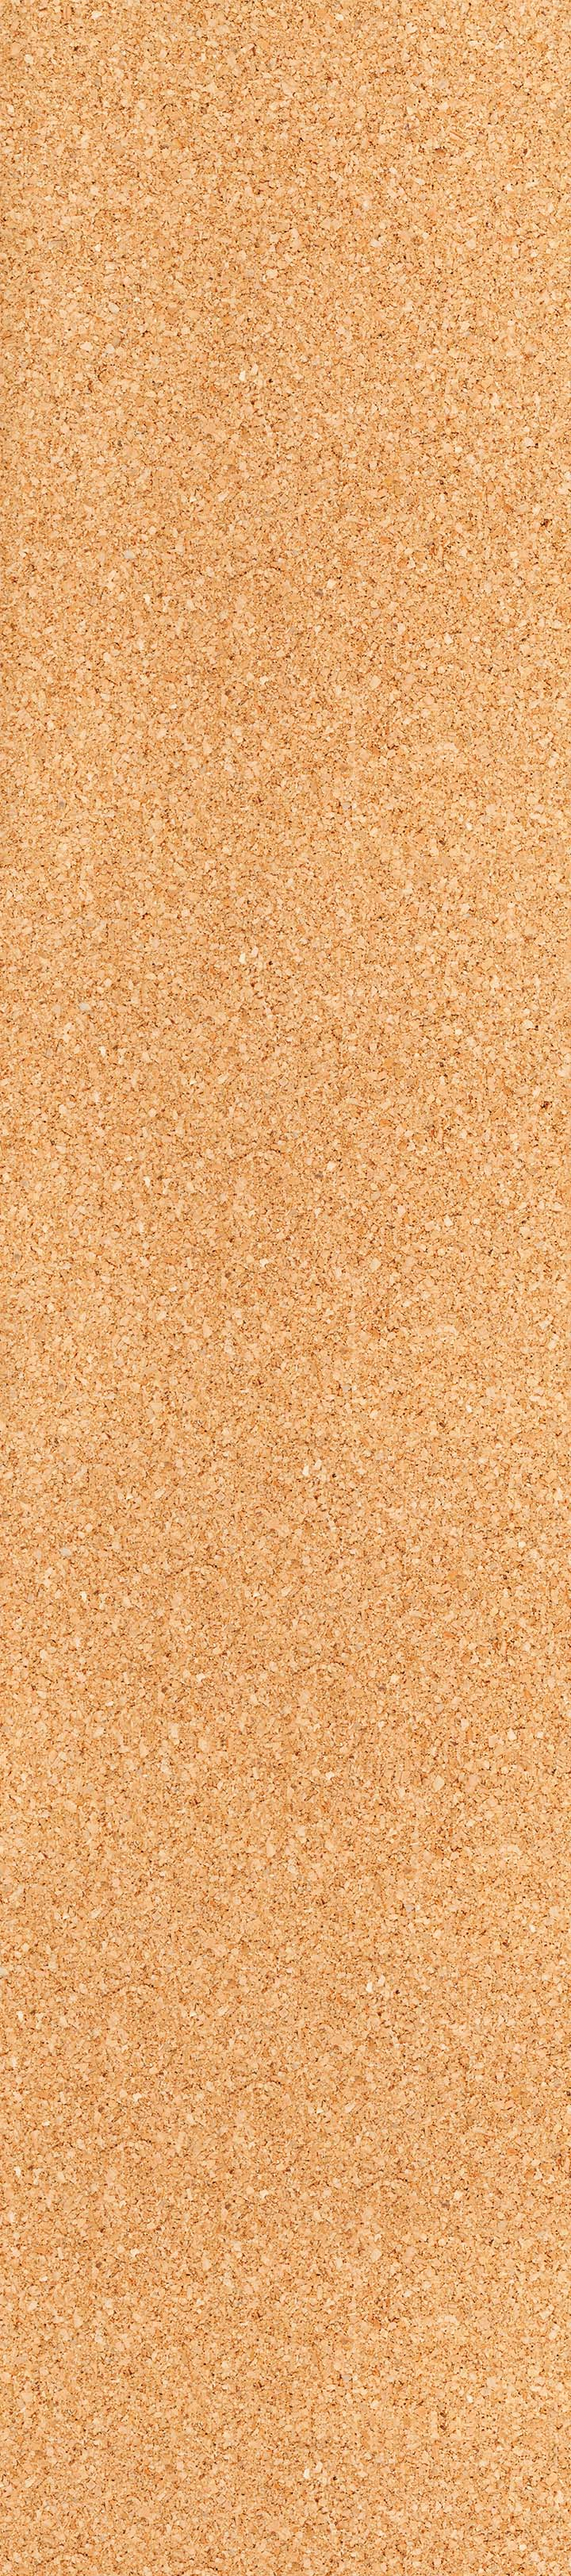
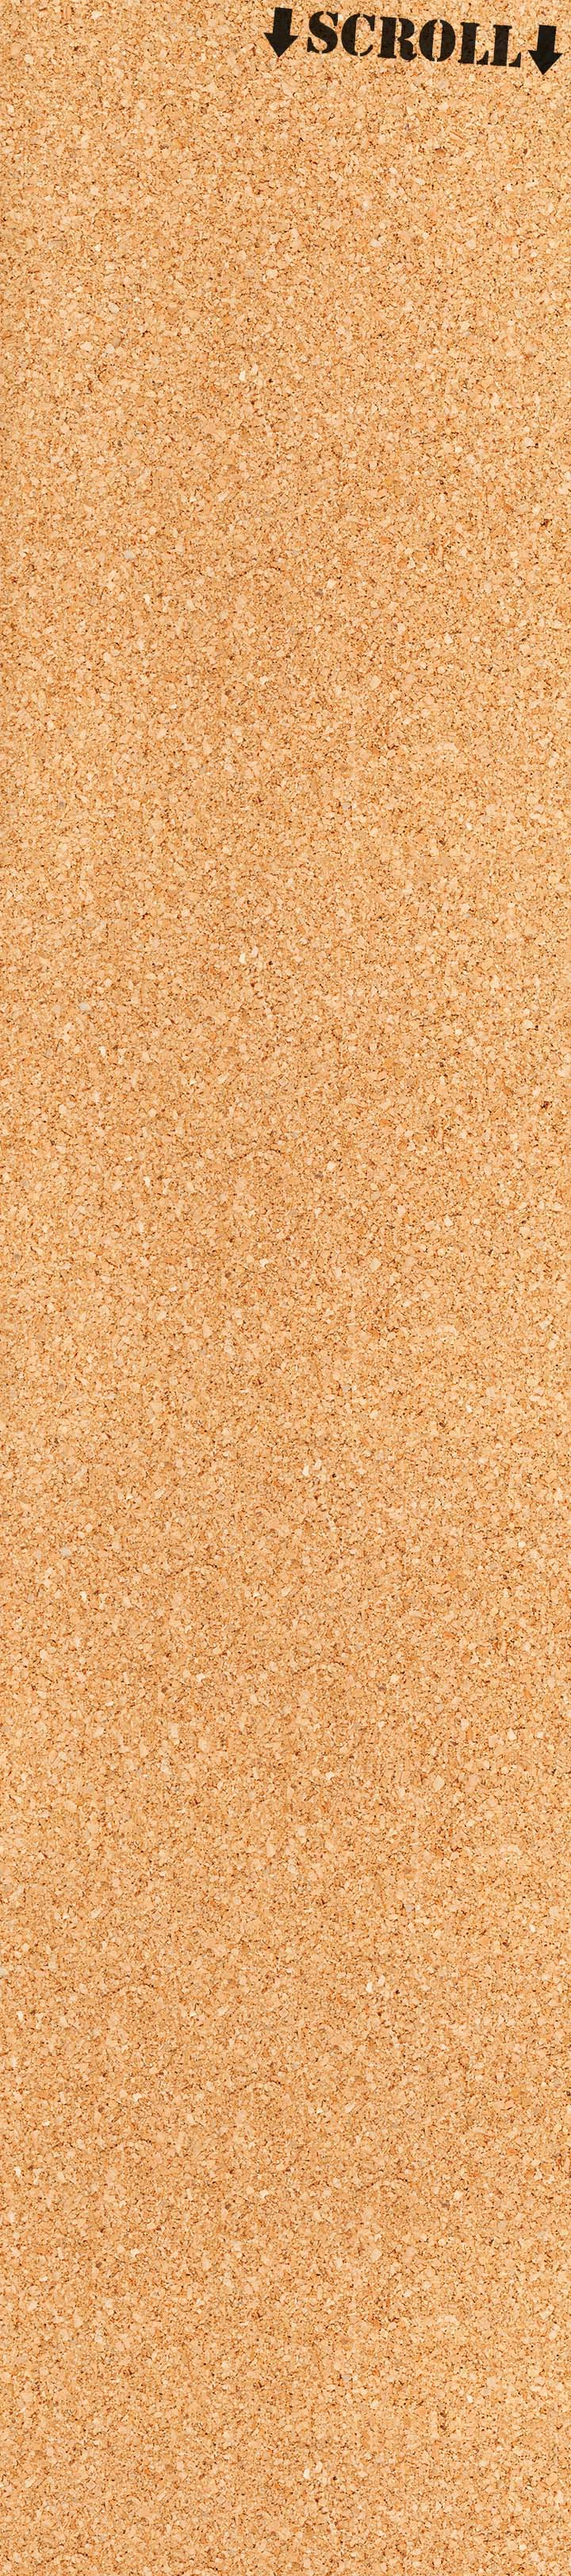
Add files via upload

Changed region(s): [[0.4583, 0.0, 0.9778, 0.0311]]

diff --git a/cssMaster.css b/cssMaster.css
@@ -80,12 +80,16 @@ border-width: 1px 0 0 0;
 
 .sectionContent {
 	width: 90%;
-	height: 100px; 
-	margin: 5% 0 0 5%;
+	margin: 0 0 0 5%;
+}
+
+#content>div {
+	height: 487px;
+	border-width: 1px 0 0 0;
+    border-style: solid;
 }
 
 #section1 {
-  height: 487px;
   background-position: center;
   background-size: cover;
   background-image: url("drone.jpg");
@@ -93,35 +97,26 @@ border-width: 1px 0 0 0;
 }
 
 #section2 {
-  height: 487px;
   background-position: center;
   background-size: cover;
   background-image: url("drone2.jpg");
-  border-width: 1px 0 0 0;
-  border-style: solid;
 }
 
 #section3 {
-  height: 487px;
   background-position: center;
   background-size: cover;
   background-image: url("drone3.jpg");
-  border-width: 1px 0 0 0;
-  border-style: solid;
 }
 
-#section4 {
-  border-width: 1px 0 0 0;
-  border-style: solid;
+#sectionBoard {
+	background: url('section4.png');
 }
 
 #videos {
   height: 400px;
-  border-width: 1px 0 0 0;
   background-size: cover;
   background-image: url("videos.jpg");
   background-position: center;
-  border-style: solid;
   padding: 20px 20px 20px 20px;
 }
 
@@ -163,6 +158,12 @@ border-width: 1px 0 0 0;
   width: 100%;
 }
 
+#board>div {
+	height: 620px;
+	overflow: scroll;
+    border-style: solid;
+	}
+
 @media only screen and (min-width: 800px){
 	#board {
 		width: 720px;
@@ -172,7 +173,7 @@ border-width: 1px 0 0 0;
 	#board>div {
 		right:-50%;
 		position: relative;
-		overflow: hidden;
+		margin: 0px 0px 20px 0px;
 	}
 }
 

diff --git a/index.html b/index.html
@@ -123,7 +123,7 @@
 	    </div>
 	  </div>
 	  
-		<div id="section4">
+		<div id="sectionBoard" style="height: 790px">
 			<div class="sectionContent" align=center>
 				<h1>Bulletin Board</h1>
 				<p>&#40;updates regularly&#41;</p>
@@ -143,6 +143,9 @@
 			</div>
 		</div>
 	  
+		<div id="theBottom">
+			
+		</div>
 	</div>
 </body>
 </html>
